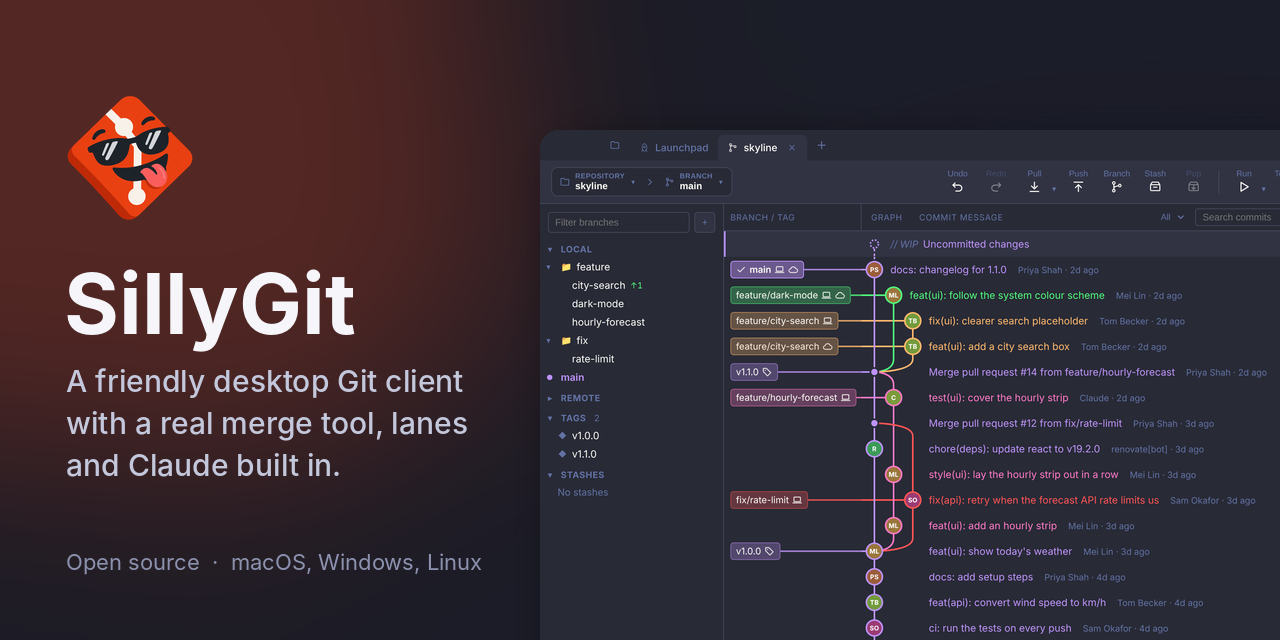
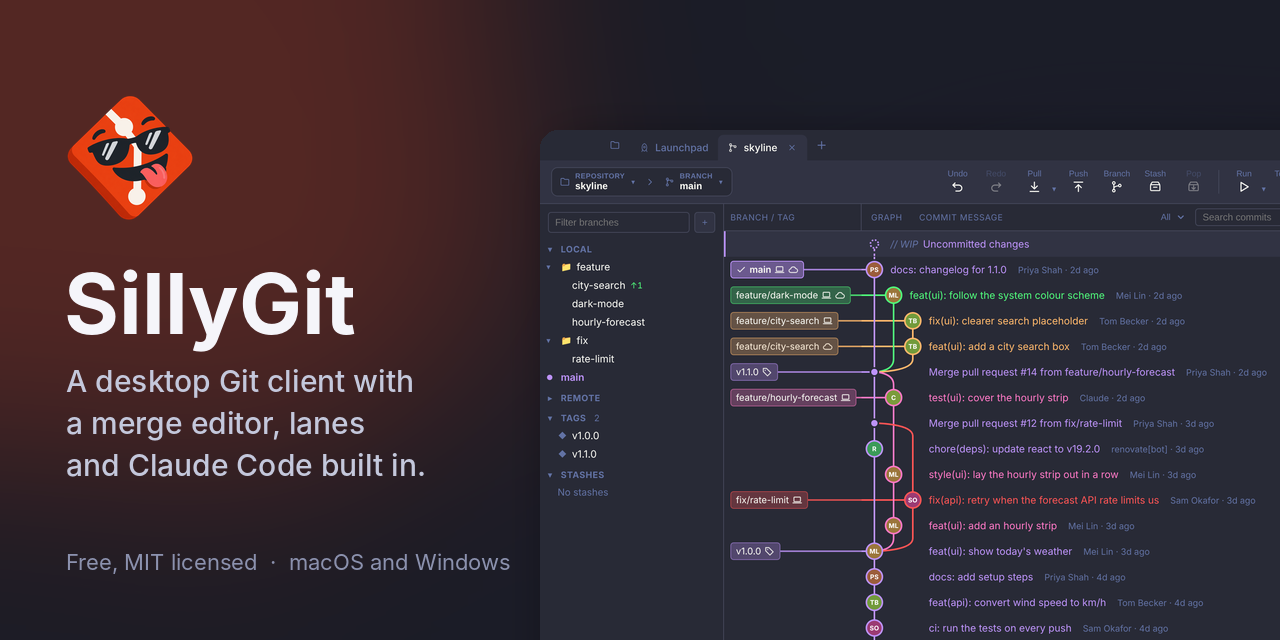
docs(site): rewrite the landing page and readme copy in a plainer voice
Says what each feature does instead of selling it: how SillyGit uses
your own git, what the merge editor, lanes, the Claude panel and absorb
actually do, and that the builds are early and unsigned.

Claude-Session: https://claude.ai/code/session_01ArkJ6JRmvZvufkPVSnhpeF

Changed region(s): [[0.0312, 0.5625, 0.375, 0.75], [0.0625, 0.8438, 0.4062, 0.9062]]

diff --git a/docs/index.html b/docs/index.html
@@ -3,13 +3,13 @@
 <head>
   <meta charset="utf-8">
   <meta name="viewport" content="width=device-width, initial-scale=1">
-  <title>SillyGit: a friendly desktop Git client</title>
-  <meta name="description" content="SillyGit is a free, open-source desktop Git client with a commit graph, line staging, a three-way merge tool, lanes, pull requests and Claude built in.">
+  <title>SillyGit, a desktop Git client</title>
+  <meta name="description" content="SillyGit is a free desktop Git client for macOS and Windows. It draws your history as a graph, stages single lines, has a three-way merge tool, and can run Claude Code in your repository.">
   <meta name="color-scheme" content="dark light">
   <meta name="theme-color" content="#1b1d28" media="(prefers-color-scheme: dark)">
   <meta name="theme-color" content="#f7f7fb" media="(prefers-color-scheme: light)">
   <meta property="og:title" content="SillyGit">
-  <meta property="og:description" content="A friendly desktop Git client with a real merge tool, lanes, and Claude built in.">
+  <meta property="og:description" content="A desktop Git client with a commit graph, line staging, a three-way merge tool and Claude Code built in.">
   <meta property="og:image" content="https://bryn-hill.github.io/sillygit/images/social-preview.png">
   <meta property="og:url" content="https://bryn-hill.github.io/sillygit/">
   <meta name="twitter:card" content="summary_large_image">
@@ -29,13 +29,13 @@
   <main>
     <section class="hero">
       <img class="hero-logo" src="images/logo.png" alt="SillyGit logo: a Git diamond wearing sunglasses" width="112" height="112">
-      <h1>Git, but friendly.</h1>
-      <p class="lede">SillyGit is a desktop Git client with a clear commit graph, staging down to single lines, a real three-way merge tool, and Claude built in. The name is silly; the Git underneath is real.</p>
+      <h1>SillyGit</h1>
+      <p class="lede">A desktop Git client. It draws your history as a graph, lets you stage a single line, gives you a three-way editor for merge conflicts, and can run Claude Code in the repository you have open.</p>
       <div class="cta">
-        <a class="button primary" href="https://github.com/bryn-hill/sillygit/releases/latest">Download for free</a>
-        <a class="button" href="https://github.com/bryn-hill/sillygit">View on GitHub</a>
+        <a class="button primary" href="https://github.com/bryn-hill/sillygit/releases/latest">Download</a>
+        <a class="button" href="https://github.com/bryn-hill/sillygit">Source on GitHub</a>
       </div>
-      <p class="fine">macOS and Windows builds · Linux from source · MIT licensed</p>
+      <p class="fine">Free and MIT licensed. Builds for macOS and Windows; Linux from source.</p>
       <figure class="shot hero-shot">
         <picture>
           <source media="(prefers-color-scheme: light)" srcset="images/graph-light.webp">
@@ -45,33 +45,19 @@
     </section>
 
     <section class="why">
-      <h2>Why SillyGit</h2>
-      <div class="cards">
-        <article>
-          <h3>It's real Git</h3>
-          <p>Every action runs the <code>git</code> on your <code>PATH</code> with your own config, hooks and credentials. The activity log shows exactly what ran.</p>
-        </article>
-        <article>
-          <h3>Conflicts stop being scary</h3>
-          <p>A three-way merge tool with per-chunk and per-line choices, bulk resolution with undo, and AI suggestions when you're stuck.</p>
-        </article>
-        <article>
-          <h3>One checkout, many branches</h3>
-          <p>Lanes keep changes for different branches in the same working tree, and commit each to its own branch.</p>
-        </article>
-        <article>
-          <h3>Free and open</h3>
-          <p>MIT licensed. No account, no telemetry, no paywalled features. Built in the open on GitHub.</p>
-        </article>
+      <h2>It runs your Git</h2>
+      <div class="prose">
+        <p>SillyGit doesn't bring its own copy of Git. Every button runs the <code>git</code> already on your machine, with your config, hooks, credentials and signing keys. <b>Actions → Activity log</b> lists the exact commands it ran.</p>
+        <p>So you can drop into a terminal whenever you like. The graph and file list update when the repository changes on disk, and <b>Undo</b> works from Git's reflog, which means it can take back a commit, checkout, merge, rebase or reset even if you ran it in the terminal.</p>
       </div>
     </section>
 
     <section id="features" class="features">
       <div class="feature">
         <div class="copy">
-          <p class="kicker">Merge conflicts</p>
-          <h2>A merge tool you'll actually use</h2>
-          <p>See both sides and the result together. Take ours, theirs or both for each chunk or single line, edit the output by hand, and resolve many files at once with undo. Conflicts from merges, rebases, cherry-picks and stash pops all land in the same place.</p>
+          <h2>Merge conflicts</h2>
+          <p>Click a conflicted file and you get your side and their side next to each other, with the result underneath. Tick the lines or chunks you want from each side, in either order, and type into the result for anything neither side has.</p>
+          <p>If a merge leaves a dozen files in conflict, select several and take one side for all of them. There's an undo for that. The same editor handles conflicts from rebases, cherry-picks and stash pops.</p>
         </div>
         <figure class="shot">
           <picture>
@@ -83,9 +69,9 @@
 
       <div class="feature flip">
         <div class="copy">
-          <p class="kicker">Lanes</p>
-          <h2>Work on several branches at once</h2>
-          <p>Fixing a bug in the middle of a feature? Turn on lanes, move each file to the lane it belongs to, and commit every lane to its own branch, all without stashing or switching.</p>
+          <h2>Lanes</h2>
+          <p>Git gives you one checked-out branch per folder. Lanes let you have several. Each lane is a real branch, and each change in your working copy belongs to one lane.</p>
+          <p>Say you're halfway through a feature and spot an unrelated bug. Fix it, drag the file into a second lane, and commit each lane to its own branch. Both sets of changes stay in your working copy the whole time, so you can still build and test them together.</p>
         </div>
         <figure class="shot">
           <picture>
@@ -97,9 +83,9 @@
 
       <div class="feature">
         <div class="copy">
-          <p class="kicker">Claude</p>
-          <h2>Claude, right next to your graph</h2>
-          <p>Chat with Claude Code inside SillyGit. Every edit and command arrives as a card you approve, with the diff right there. AI commit messages, reviews and help splitting a big change are a click away.</p>
+          <h2>Claude Code in a side panel</h2>
+          <p>The Claude panel runs Claude Code in the repository you have open. By default it asks before it edits a file or runs a command, and shows you the diff or the command first.</p>
+          <p>Whatever it changes ends up in your working copy like any other edit, so you review and commit it the usual way. It needs Claude Code signed in or an Anthropic API key. Everything else in SillyGit works without one.</p>
         </div>
         <figure class="shot">
           <picture>
@@ -111,9 +97,9 @@
 
       <div class="feature flip">
         <div class="copy">
-          <p class="kicker">Staging</p>
-          <h2>Commit exactly what you mean</h2>
-          <p>Stage, unstage or discard whole files, single hunks or individual lines. Fix up an earlier commit, or <em>absorb</em> staged hunks into the unpushed commits they belong to.</p>
+          <h2>Staging, fixups and absorb</h2>
+          <p>Stage or discard a single line straight from the diff. To fix an older commit, stage the fix, right-click the commit and choose <b>Fix up this commit with staged changes</b>.</p>
+          <p>If you have fixes for several commits, <b>Absorb</b> works out which unpushed commit last touched each hunk, shows you where each one will go, and folds them in. Both rewrite history, so they're meant for commits you haven't pushed.</p>
         </div>
         <figure class="shot">
           <picture>
@@ -125,9 +111,8 @@
 
       <div class="feature">
         <div class="copy">
-          <p class="kicker">Help</p>
-          <h2>Help that's always one key away</h2>
-          <p>A short walkthrough on first launch and over 50 help articles, each with a worked example. Press <kbd>F1</kbd> or <kbd>?</kbd> anywhere in the app.</p>
+          <h2>Help inside the app</h2>
+          <p>Press <kbd>F1</kbd> or <kbd>?</kbd> for the help centre: 53 short articles, each ending with a worked example. The first time you open a repository there's a quick walkthrough of the window, which you can skip.</p>
         </div>
         <figure class="shot">
           <picture>
@@ -139,42 +124,43 @@
     </section>
 
     <section class="more">
-      <h2>And plenty more</h2>
+      <h2>Also in there</h2>
       <ul class="grid">
-        <li><strong>Interactive rebase</strong> by drag and drop</li>
-        <li><strong>Pull requests</strong>: review, create and check out</li>
+        <li><strong>Interactive rebase</strong> where you drag commits to reorder, squash or drop them</li>
+        <li><strong>Pull requests</strong>: review them, open new ones, check them out locally</li>
         <li><strong>Accounts</strong> for GitHub, GitLab, Bitbucket, Gitea and Azure DevOps</li>
-        <li><strong>Start work</strong> on GitHub issues, Jira tickets and Azure Boards items</li>
-        <li><strong>Guided bisect</strong>, git-flow and stacked branches</li>
-        <li><strong>Blame</strong>, file history and image diffs</li>
-        <li><strong>Built-in editor</strong>, terminal and command palette</li>
-        <li><strong>Multi-repo tabs</strong> that come back where you left them</li>
-        <li><strong>Git LFS</strong>, tags, worktrees and submodules</li>
-        <li><strong>Undo and redo</strong> for everyday operations</li>
-        <li><strong>Search history</strong> by message, author, path or content</li>
-        <li><strong>Light, dark or system</strong> theme</li>
+        <li><strong>Start work</strong> on an issue, Jira ticket or Azure Boards item to get a branch for it</li>
+        <li><strong>Bisect</strong> from the commit menu, optionally running a test command for you</li>
+        <li><strong>git-flow</strong> and <strong>stacked branches</strong>, with no extra tools to install</li>
+        <li><strong>Blame</strong>, file history, and image diffs as swipe or onion skin</li>
+        <li><strong>An editor</strong> for quick fixes, a terminal, and a command palette</li>
+        <li><strong>Tabs</strong> for several repositories, restored when you reopen the app</li>
+        <li><strong>Git LFS</strong>, tags, worktrees and submodules in the sidebar</li>
+        <li><strong>History search</strong> by message, author, path or changed content</li>
+        <li><strong>Light and dark themes</strong>, or follow the system</li>
       </ul>
     </section>
 
     <section id="download" class="download">
-      <h2>Get SillyGit</h2>
+      <h2>Download</h2>
+      <p class="note">This is an early release. The builds aren't signed yet, so your system will warn you the first time you open SillyGit.</p>
       <div class="cards">
         <article>
           <h3>macOS</h3>
-          <p>Apple silicon and Intel, as a <code>.dmg</code>.</p>
-          <p class="fine">First launch: right-click the app and choose <b>Open</b>.</p>
+          <p>A <code>.dmg</code> for Apple silicon or Intel.</p>
+          <p class="fine">The first time, right-click the app and choose <b>Open</b>.</p>
           <a class="button primary" href="https://github.com/bryn-hill/sillygit/releases/latest">Download</a>
         </article>
         <article>
           <h3>Windows</h3>
-          <p>Windows 10 and 11, 64-bit. Unzip and run <code>SillyGit.exe</code>.</p>
-          <p class="fine">On the SmartScreen prompt, click <b>More info → Run anyway</b>.</p>
+          <p>A <code>.zip</code> for 64-bit Windows 10 and 11. Unzip it and run <code>SillyGit.exe</code>.</p>
+          <p class="fine">If SmartScreen stops it, click <b>More info</b>, then <b>Run anyway</b>.</p>
           <a class="button primary" href="https://github.com/bryn-hill/sillygit/releases/latest">Download</a>
         </article>
         <article>
-          <h3>Linux and source</h3>
-          <p>Run it from a clone with Node.js 22, or build an AppImage with <code>npm run dist</code>.</p>
-          <p class="fine">Needs Git on your <code>PATH</code>.</p>
+          <h3>Linux</h3>
+          <p>No prebuilt download yet. Run it from a clone, or make an AppImage with <code>npm run dist</code>.</p>
+          <p class="fine">Needs Git and Node.js 22.</p>
           <a class="button" href="https://github.com/bryn-hill/sillygit#run-from-source">Build from source</a>
         </article>
       </div>

diff --git a/docs/style.css b/docs/style.css
@@ -130,22 +130,16 @@ main > section { padding: 0 16px; max-width: 1192px; margin: 0 auto; }
   padding: 22px;
 }
 .cards p { color: var(--muted); margin: 0 0 12px; }
-.why .cards { grid-template-columns: repeat(4, 1fr); }
 .download .cards { grid-template-columns: repeat(3, 1fr); }
 .download .cards article { display: flex; flex-direction: column; align-items: flex-start; }
 .download .cards .fine { margin: 0 0 20px; }
 .download .cards .button { margin-top: auto; }
 .download .cards .button.primary { box-shadow: 0 4px 14px color-mix(in srgb, var(--accent) 25%, transparent); }
 
-@media (max-width: 1000px) {
-  .why .cards { grid-template-columns: repeat(2, 1fr); }
-}
 @media (max-width: 760px) {
   .download .cards { grid-template-columns: 1fr; }
 }
-@media (max-width: 560px) {
-  .why .cards { grid-template-columns: 1fr; }
-}
+
 
 .features { padding-top: 112px !important; display: grid; gap: 112px; }
 .feature {
@@ -156,6 +150,9 @@ main > section { padding: 0 16px; max-width: 1192px; margin: 0 auto; }
 }
 .feature.flip .copy { order: 2; }
 .feature .copy p { color: var(--muted); }
+.prose { max-width: 680px; margin: 0 auto; text-align: left; color: var(--muted); font-size: 1.08rem; }
+.prose b { color: var(--text); }
+.note { max-width: 620px; margin: 0 auto; color: var(--muted); }
 .kicker {
   color: var(--accent) !important;
   font-weight: 800;

diff --git a/README.md b/README.md
@@ -4,7 +4,7 @@
 
 # SillyGit
 
-**A friendly desktop Git client with a real merge tool, lanes, and Claude built in.**
+**A desktop Git client with a commit graph, line staging, a three-way merge editor and Claude Code built in.**
 
 [![CI](https://github.com/bryn-hill/sillygit/actions/workflows/ci.yml/badge.svg?branch=dev)](https://github.com/bryn-hill/sillygit/actions/workflows/ci.yml)
 [![Latest release](https://img.shields.io/github/v/release/bryn-hill/sillygit?label=release&color=e8461c)](https://github.com/bryn-hill/sillygit/releases/latest)
@@ -22,27 +22,24 @@
 
 </div>
 
-SillyGit gives you a commit graph, staging down to single lines, a proper three-way merge
-tool, pull requests from GitHub and Azure DevOps, Jira and Azure Boards issues, and a Claude
-panel that can read and change your repo, all in one window. The name is silly; the Git
-underneath is real Git, run with your own config.
+SillyGit draws your history as a graph, lets you stage a single line, gives you a three-way
+editor for merge conflicts, and can run Claude Code in the repository you have open. It also
+handles pull requests from GitHub and Azure DevOps, and issues from GitHub, Jira and Azure
+Boards. It's free and MIT licensed.
 
-## Why SillyGit
+## It runs your Git
 
-- **It's real Git.** Every action runs the `git` on your `PATH` with your config, hooks and
-  credentials, and the activity log shows exactly what ran. Nothing is hidden in a private
-  database, so you can switch to the terminal at any point.
-- **Conflicts stop being scary.** A three-way merge tool with per-chunk and per-line choices,
-  bulk resolution with undo, and optional AI suggestions when you're stuck.
-- **Several things at once, one checkout.** Lanes let you keep changes for different branches in
-  the same working tree and commit each to its own branch.
-- **Claude where your code is.** Chat with Claude Code inside the app, approve each edit or
-  command from a card, and get AI commit messages, reviews and commit splits.
-- **Free and open source.** MIT licensed, no account, no telemetry, no paywalled features.
+SillyGit doesn't bring its own copy of Git. Every button runs the `git` already on your
+machine, with your config, hooks, credentials and signing keys, and **Actions → Activity log**
+lists the exact commands it ran.
+
+So you can drop into a terminal whenever you like. The graph and file list update when the
+repository changes on disk, and **Undo** works from Git's reflog, which means it can take back
+a commit, checkout, merge, rebase or reset even if you ran it in the terminal.
 
 ## Download
 
-Grab the latest build from **[GitHub Releases](https://github.com/bryn-hill/sillygit/releases/latest)**.
+The latest build is on **[GitHub Releases](https://github.com/bryn-hill/sillygit/releases/latest)**. This is an early release.
 
 | Platform | File |
 | --- | --- |
@@ -51,12 +48,12 @@ Grab the latest build from **[GitHub Releases](https://github.com/bryn-hill/sill
 | Windows 10/11, 64-bit | `SillyGit-<version>-win-x64.zip` (portable: unzip and run `SillyGit.exe`) |
 | Linux | Build an AppImage from source with `npm run dist` (see [below](#run-from-source)) |
 
-Builds aren't signed with a paid certificate yet, so the first launch shows a warning. On
+The builds aren't signed yet, so your system warns you the first time you open SillyGit. On
 **macOS**, right-click the app and choose **Open**, or use **System Settings → Privacy &
-Security → Open Anyway**. On **Windows**, click **More info → Run anyway** on the SmartScreen
-prompt. [RELEASING.md](RELEASING.md) has the details and the checksums file.
+Security → Open Anyway**. On **Windows**, if SmartScreen stops it, click **More info**, then
+**Run anyway**. [RELEASING.md](RELEASING.md) has the details and the checksums file.
 
-You'll also want **Git** on your `PATH`. For the integrations, sign in to the
+You need **Git** installed. For the GitHub features, sign in to the
 [GitHub CLI](https://cli.github.com/) with `gh auth login` and to
 [Claude Code](https://claude.com/claude-code) (or set an Anthropic API key in Settings).
 
@@ -69,16 +66,17 @@ You'll also want **Git** on your `PATH`. For the integrations, sign in to the
   <source media="(prefers-color-scheme: light)" srcset="docs/images/conflict-light.webp">
   <img src="docs/images/conflict-dark.webp" alt="The three-way merge tool with the current and incoming sides above the output">
 </picture>
-<b>Three-way merge tool.</b> Take ours, theirs or both per chunk or per line, edit the output
-by hand, resolve many files at once with undo, or ask AI for a suggestion.
+<b>Merge conflicts.</b> Your side and their side next to each other, with the result
+underneath. Pick lines or chunks from either side, edit the result by hand, or take one side
+for many files at once.
 </td>
 <td width="50%" valign="top">
 <picture>
   <source media="(prefers-color-scheme: light)" srcset="docs/images/lanes-light.webp">
   <img src="docs/images/lanes-dark.webp" alt="The lanes panel with two lanes, each with its own files and commit box">
 </picture>
-<b>Lanes.</b> Work on several branches at once in one working tree, move files between
-lanes, then commit each lane to its own branch.
+<b>Lanes.</b> Several branches checked out in one folder. Each change belongs to a lane, and
+each lane commits to its own branch, so an unrelated fix doesn't end up in your feature.
 </td>
 </tr>
 <tr>
@@ -87,16 +85,16 @@ lanes, then commit each lane to its own branch.
   <source media="(prefers-color-scheme: light)" srcset="docs/images/claude-light.webp">
   <img src="docs/images/claude-dark.webp" alt="The Claude panel asking permission to make an edit, showing the diff">
 </picture>
-<b>Claude panel.</b> Chat with Claude Code beside your graph. Every edit and command
-arrives as a card you approve, with the diff right there.
+<b>Claude Code in a side panel.</b> By default it asks before editing a file or running a
+command, and shows you the diff or command first. Its changes land in your working copy.
 </td>
 <td width="50%" valign="top">
 <picture>
   <source media="(prefers-color-scheme: light)" srcset="docs/images/diff-light.webp">
   <img src="docs/images/diff-dark.webp" alt="A file diff with Stage Hunk and Discard Hunk buttons">
 </picture>
-<b>Stage exactly what you mean.</b> Stage, unstage or discard whole files, single hunks or
-individual lines, then fix up or <i>absorb</i> them into earlier commits.
+<b>Staging, fixups and absorb.</b> Stage or discard single lines. Fold fixes into older
+unpushed commits, one at a time or all at once with <b>Absorb</b>.
 </td>
 </tr>
 <tr>
@@ -105,21 +103,21 @@ individual lines, then fix up or <i>absorb</i> them into earlier commits.
   <source media="(prefers-color-scheme: light)" srcset="docs/images/help-light.webp">
   <img src="docs/images/help-dark.webp" alt="The help centre with topics on the left and popular articles">
 </picture>
-<b>Help built in.</b> A first-run walkthrough and over 50 help articles, each with a
-worked example. Press <kbd>F1</kbd> or <kbd>?</kbd> anywhere.
+<b>Help inside the app.</b> Press <kbd>F1</kbd> or <kbd>?</kbd> for 53 short articles, each
+ending with a worked example, plus a walkthrough the first time you open a repository.
 </td>
 <td width="50%" valign="top">
 
-**And much more**
+**Also in there**
 
-- Interactive rebase by drag and drop
-- Guided `git bisect`, git-flow and stacked branches
-- Pull request review, create and check out
-- GitHub, GitLab, Bitbucket, Gitea, Azure DevOps
-- Jira and Azure Boards: **Start work** on a ticket
+- Interactive rebase: drag commits to reorder, squash or drop
+- `git bisect`, git-flow and stacked branches
+- Pull requests: review, open and check out locally
+- Accounts for GitHub, GitLab, Bitbucket, Gitea and Azure DevOps
+- **Start work** on an issue or Jira ticket to get a branch for it
 - Blame, file history and image diffs
 - Built-in editor, terminal and command palette
-- Light, dark or system theme
+- Light and dark themes, or follow the system
 
 </td>
 </tr>
